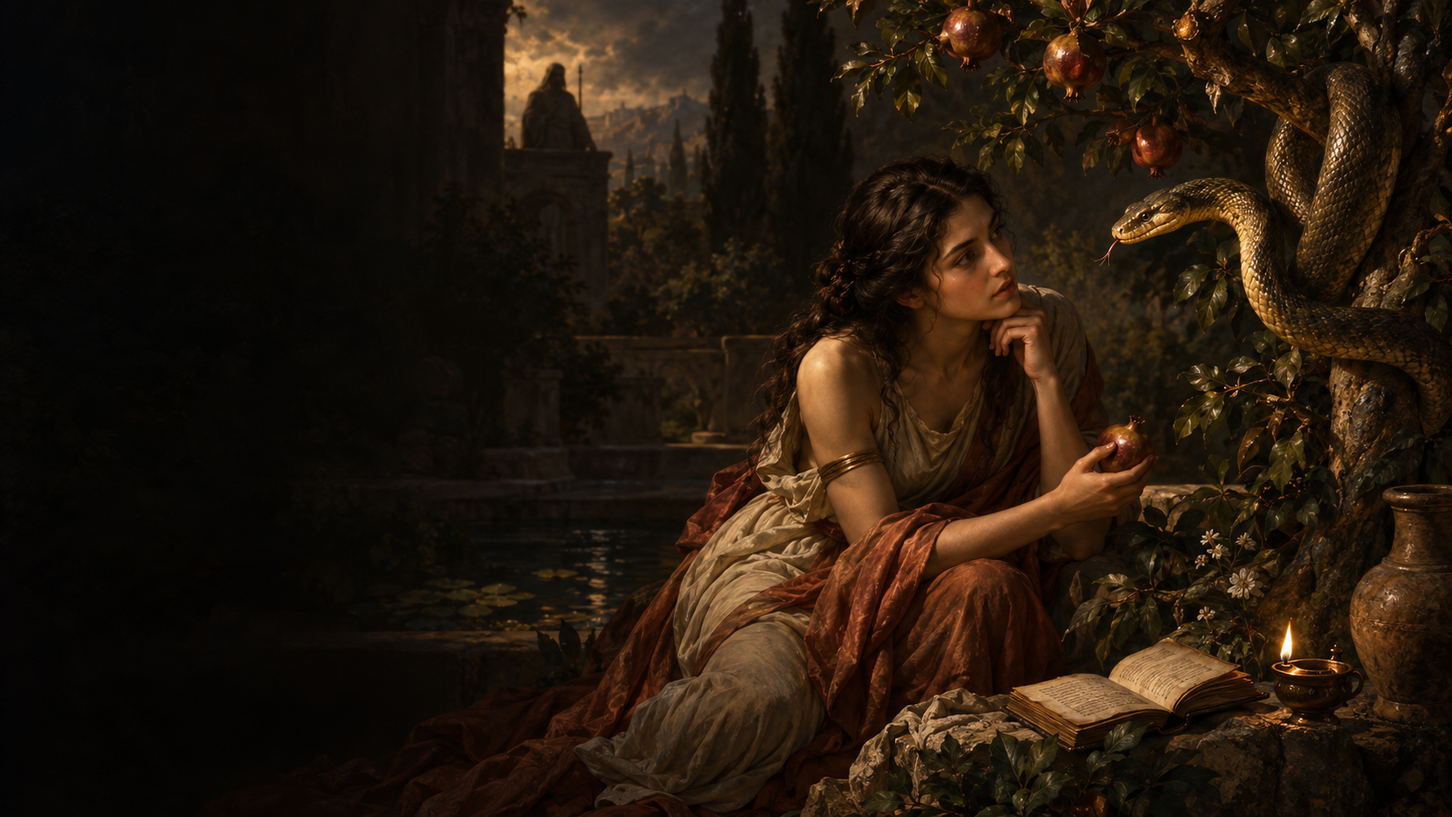
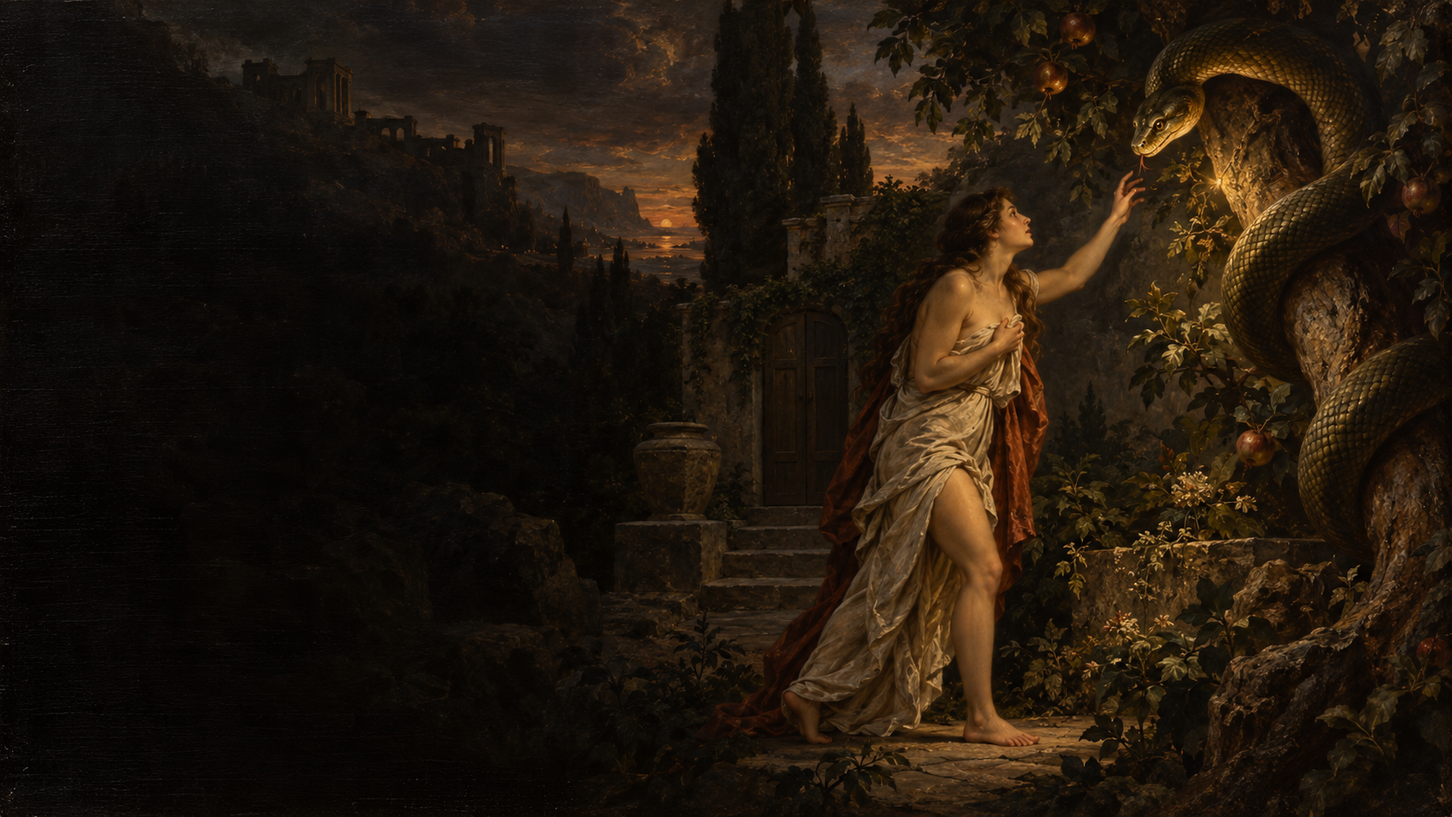
Refine deck 02 with allegorical art and discreet controls

diff --git a/02/index.html b/02/index.html
@@ -99,14 +99,10 @@
       .notes-panel.is-open { display: block; }
       .notes-panel h3 { margin-bottom: .7rem; color: var(--gold); font-family: var(--sans); font-size: 1rem; font-weight: 800; letter-spacing: .12em; text-transform: uppercase; }
       .notes-panel p { font-family: var(--display); font-size: clamp(19px,1.4vw,29px); line-height: 1.35; }
-      .controls { position: absolute; z-index: 25; left: 4%; right: 4%; bottom: 2.5%; display: flex; align-items: center; gap: .7rem; padding: .45rem .65rem; border: 1px solid rgba(251,245,233,.2); border-radius: 3rem; color: var(--ivory); background: rgba(14,18,15,.79); opacity: .75; transition: opacity .2s; }
-      .controls:hover, .controls:focus-within { opacity: 1; }
-      .control-button { min-width: 2.5rem; height: 2.5rem; padding: 0 .6rem; border: 1px solid rgba(251,245,233,.34); border-radius: 2rem; color: inherit; background: transparent; cursor: pointer; font-size: 1rem; font-weight: 700; }
-      .control-button:hover, .control-button:focus-visible { border-color: var(--gold); color: var(--gold); }
-      .progress { flex: 1; height: 3px; margin-left: .5rem; background: rgba(251,245,233,.25); }
+      .progress { position: absolute; z-index: 25; left: 0; right: 0; bottom: 0; height: 3px; pointer-events: none; }
       .progress span { display: block; height: 100%; width: 4.76%; background: var(--gold); transition: width .25s; }
-      .counter { min-width: 5rem; color: var(--gold); font-size: 1rem; font-weight: 800; text-align: right; }
-      @media (max-width: 800px) { .meta { font-size: 12px; } .eyebrow { font-size: 13px; } .title { font-size: 6vw; } .hero .title { font-size: 7.5vw; } .lede { font-size: 2.9vw; margin-top: .6rem; } .support, .source-line { font-size: 2.1vw; margin-top: .7rem; } .body { padding-top: 9%; } .cards, .compare, .steps { margin-top: 1rem; } .card { min-height: 4rem; padding: .5rem; } .card h3 { font-size: 3vw; } .card p { margin-top: .3rem; font-size: 2vw; } .stack { gap: .25rem; margin-top: .4rem; } .stack-item { font-size: 2.8vw; } .image-copy { bottom: 13%; } .controls { padding: .15rem; } .control-button { min-width: 1.5rem; height: 1.5rem; font-size: .55rem; } .counter { font-size: .55rem; } }
+      .visually-hidden { position: absolute; width: 1px; height: 1px; padding: 0; margin: -1px; overflow: hidden; clip: rect(0,0,0,0); white-space: nowrap; border: 0; }
+      @media (max-width: 800px) { .meta { font-size: 12px; } .eyebrow { font-size: 13px; } .title { font-size: 6vw; } .hero .title { font-size: 7.5vw; } .lede { font-size: 2.9vw; margin-top: .6rem; } .support, .source-line { font-size: 2.1vw; margin-top: .7rem; } .body { padding-top: 9%; } .cards, .compare, .steps { margin-top: 1rem; } .card { min-height: 4rem; padding: .5rem; } .card h3 { font-size: 3vw; } .card p { margin-top: .3rem; font-size: 2vw; } .stack { gap: .25rem; margin-top: .4rem; } .stack-item { font-size: 2.8vw; } .image-copy { bottom: 13%; } }
       @media (prefers-reduced-motion: reduce) { .slide, .progress span { transition: none; } }
     </style>
   </head>
@@ -115,7 +111,7 @@
       <div class="frame" id="frame">
         <!-- 01 -->
         <section class="slide slide--image hero is-active" data-title="Confiar sin controlar">
-          <img class="slide-photo" src="assets/01-planes.png" alt="Una persona agotada frente a sus planes en una mesa nocturna" />
+          <img class="slide-photo" src="assets/01-planes.png?v=2" alt="Una persona forcejea con las cuerdas de una vela bajo una tormenta" />
           <div class="meta"><span>Dos jardines · una pregunta</span><span class="number">01 / 21</span></div>
           <div class="image-copy"><p class="eyebrow">Confianza y control</p><h1 class="title">CONFIAR<br /><em>SIN CONTROLAR</em></h1><p class="lede">¿Busco a Dios o una manera de asegurar mi futuro?</p></div>
           <p class="speaker-notes">Abrir con una necesidad humana: querer que todo salga bien. Presentar la pregunta central sin resolverla aún.</p>
@@ -145,7 +141,7 @@
 
         <!-- 05 -->
         <section class="slide slide--image" data-title="El jardín contado al revés">
-          <img class="slide-photo" src="assets/03-jardin-invertido.png" alt="Relectura pictórica de un jardín antiguo con una serpiente presentada como instructora" />
+          <img class="slide-photo" src="assets/03-jardin-invertido.png?v=2" alt="Una persona se acerca a la serpiente que parece ofrecerle conocimiento en un jardín antiguo" />
           <div class="meta"><span>Una relectura gnóstica</span><span class="number">05 / 21</span></div>
           <div class="image-copy"><p class="eyebrow">La misma historia, contada al revés</p><h2 class="title">La serpiente <em>instruye.</em><br />El creador <em>impide.</em></h2><p class="source-line">En ciertos relatos, no en todos</p></div>
           <p class="speaker-notes">La hipóstasis de los arcontes presenta a la serpiente como instructora. Ireneo describe doctrinas relacionadas. Distinguir esta relectura del Génesis bíblico y de otras corrientes gnósticas.</p>
@@ -174,7 +170,7 @@
 
         <!-- 09 -->
         <section class="slide slide--image" data-title="The Secret">
-          <img class="slide-photo" src="assets/04-manifestar.png" alt="Mujer mirando imágenes de la vida que desea mientras sostiene una factura" />
+          <img class="slide-photo" src="assets/04-manifestar.png?v=2" alt="Una persona intenta atravesar un espejo hacia un futuro deslumbrante mientras el suelo se inunda" />
           <div class="meta"><span>La ley de la atracción</span><span class="number">09 / 21</span></div>
           <div class="image-copy"><p class="eyebrow">The Secret</p><h2 class="title">Tus pensamientos <em>atraen</em> lo que llega a tu vida.</h2><p class="support">Ésa es su propuesta; no una ley científica demostrada.</p></div>
           <p class="speaker-notes">La página oficial de The Secret sostiene que pensamientos atraen objetos, personas y experiencias. Distinguir la afirmación de su evidencia científica.</p>
@@ -189,7 +185,7 @@
 
         <!-- 11 -->
         <section class="slide slide--image" data-title="También dicen suelta">
-          <img class="slide-photo" src="assets/05-soltar-el-como.png" alt="Persona medita con manos abiertas mientras las imágenes del futuro deseado siguen presentes" />
+          <img class="slide-photo" src="assets/05-soltar-el-como.png?v=2" alt="Una persona abre las manos, pero un hilo rojo en su muñeca la mantiene atada a una puerta iluminada" />
           <div class="meta"><span>El detalle más sutil</span><span class="number">11 / 21</span></div>
           <div class="image-copy"><p class="eyebrow">También dicen «suelta»</p><h2 class="title">Entrega el <em>cómo.</em><br />Conserva el resultado <em>imaginado.</em></h2><p class="source-line">La tensión en el planteamiento de Dispenza</p></div>
           <p class="speaker-notes">En The Balance Between Intention and Surrender, Dispenza propone intención y emoción elevadas, luego entregar el modo de realización. Preguntar si también se entrega el resultado.</p>
@@ -255,7 +251,7 @@
 
         <!-- 20 -->
         <section class="slide slide--image" data-title="La pregunta para nosotros">
-          <img class="slide-photo" src="assets/08-pregunta.png" alt="Mesa de madera, vela y silla vacía ante una ventana al amanecer" />
+          <img class="slide-photo" src="assets/08-pregunta.png?v=2" alt="Una persona afloja una cuerda anudada al borde de un camino incierto antes del amanecer" />
           <div class="meta"><span>La pregunta para nosotros</span><span class="number">20 / 21</span></div>
           <div class="image-copy"><p class="eyebrow">Ahora, nosotros</p><h2 class="title">¿Qué espero que Dios <em>me garantice?</em></h2><p class="support">Si no sucede como quiero, ¿seguiré confiando en Él?</p></div>
           <p class="speaker-notes">Dar un momento de silencio. Escuchar lo que surja en el grupo. La pregunta invita a examinar la propia oración, no a evaluar las prácticas de otros.</p>
@@ -269,14 +265,8 @@
         </section>
 
         <aside class="notes-panel" id="notesPanel" aria-hidden="true"><h3>Notas del presentador · N para cerrar</h3><p id="notesContent"></p></aside>
-        <nav class="controls" aria-label="Controles de la presentación">
-          <button class="control-button" id="prev" type="button" aria-label="Lámina anterior">←</button>
-          <button class="control-button" id="next" type="button" aria-label="Lámina siguiente">→</button>
-          <button class="control-button" id="notesToggle" type="button" aria-label="Mostrar notas del presentador">Notas (N)</button>
-          <button class="control-button" id="fullscreen" type="button" aria-label="Pantalla completa">Pantalla (F)</button>
-          <div class="progress" aria-hidden="true"><span id="progressBar"></span></div>
-          <span class="counter" id="counter">01 / 21</span>
-        </nav>
+        <div class="progress" aria-hidden="true"><span id="progressBar"></span></div>
+        <span class="visually-hidden" id="counter" aria-live="polite">01 / 21</span>
       </div>
     </main>
     <script>
@@ -287,7 +277,6 @@
         const notesContent = document.getElementById('notesContent');
         const counter = document.getElementById('counter');
         const progressBar = document.getElementById('progressBar');
-        const notesToggle = document.getElementById('notesToggle');
         let current = 0;
         const clamp = (value, min, max) => Math.max(min, Math.min(value, max));
         function updateNotes() {
@@ -312,7 +301,6 @@
         function toggleNotes() {
           const open = notesPanel.classList.toggle('is-open');
           notesPanel.setAttribute('aria-hidden', String(!open));
-          notesToggle.setAttribute('aria-pressed', String(open));
         }
         async function toggleFullscreen() {
           try {
@@ -320,10 +308,12 @@
             else await document.exitFullscreen();
           } catch (error) { console.warn('Pantalla completa no disponible.', error); }
         }
-        document.getElementById('prev').addEventListener('click', () => goTo(current - 1));
-        document.getElementById('next').addEventListener('click', () => goTo(current + 1));
-        notesToggle.addEventListener('click', toggleNotes);
-        document.getElementById('fullscreen').addEventListener('click', toggleFullscreen);
+        frame.addEventListener('click', event => {
+          if (event.target.closest('.notes-panel')) return;
+          const bounds = frame.getBoundingClientRect();
+          if (event.clientX - bounds.left < bounds.width * .35) goTo(current - 1);
+          else goTo(current + 1);
+        });
         document.addEventListener('keydown', event => {
           if (['INPUT', 'TEXTAREA', 'SELECT'].includes(document.activeElement?.tagName)) return;
           if (['ArrowRight', ' ', 'PageDown'].includes(event.key)) { event.preventDefault(); goTo(current + 1); }

diff --git a/02/ARTE.md b/02/ARTE.md
@@ -1,30 +1,32 @@
 # Arte · Confiar sin controlar
 
-Ocho pinturas narrativas originales, horizontales 16:9 y sin texto dentro de la imagen. La serie se mueve de una habitación moderna saturada de planes a dos jardines y termina en una mesa vacía. El lenguaje es realismo pictórico de aire barroco: rostros expresivos, manos legibles, luz que revela una acción, sombra profunda y una paleta de ámbar, cobre, verde oliva, azul noche y marfil. La historia debe entenderse por la escena, no por iconos abstractos.
+Ocho pinturas narrativas originales, horizontales 16:9 y sin texto dentro de la imagen. La serie abre con alguien forcejeando contra una tormenta, pasa por dos jardines y termina con una cuerda que empieza a soltarse. El lenguaje es pintura alegórica de aire barroco: gesto decisivo, escala teatral, pincelada visible, luz que revela una elección y sombras profundas. La historia debe entenderse por la escena, no por una pose editorial o un ambiente doméstico agradable.
+
+Revisión visual de septiembre de 2026: Rogelio señaló como referencia su presentación personal **«Corazón inquieto»**, guardada en su vault *Praulios Lair*. Revisamos el plan visual y las imágenes incorporadas en el PowerPoint. Tomamos su contraste entre laberinto y camino, falsa promesa y luz, así como su uso de una acción simbólica legible en un instante. **No se publicaron imágenes, dibujos personales ni personajes de aquel testimonio en este repositorio.** Los cinco artes sustituidos se generaron de nuevo con esa dirección; Edén, Getsemaní y Teresita se conservaron.
 
 | Arte | Lámina | Archivo | Imagen memorable |
 | --- | ---: | --- | --- |
-| 01 | 01 | `assets/01-planes.png` | Una persona contemporánea sola ante planes y calendario, agotada de intentar controlar el futuro. |
+| 01 | 01 | `assets/01-planes.png` | Una persona forcejea con las cuerdas de una vela durante una tormenta que no puede gobernar. |
 | 02 | 03 | `assets/02-eden.png` | Eva escucha a la serpiente junto al árbol; abundancia visible y un gesto de duda. |
-| 03 | 05 | `assets/03-jardin-invertido.png` | Una relectura gnóstica del jardín: la serpiente como instructora luminosa en una escena de la Antigüedad tardía. |
-| 04 | 09 | `assets/04-manifestar.png` | Una persona actual mira imágenes de la vida que desea mientras su realidad inmediata sigue a la vista. |
-| 05 | 11 | `assets/05-soltar-el-como.png` | La misma tensión moderna en una práctica de meditación: manos abiertas, pero el resultado deseado sigue ocupando el centro. |
+| 03 | 05 | `assets/03-jardin-invertido.png` | Una persona da un paso hacia la serpiente que parece prometer una verdad oculta. |
+| 04 | 09 | `assets/04-manifestar.png` | Una figura intenta atravesar un espejo hacia un futuro brillante mientras su lado del mundo se inunda. |
+| 05 | 11 | `assets/05-soltar-el-como.png` | Manos abiertas; un hilo rojo aún ata la muñeca a una puerta luminosa cerrada. |
 | 06 | 13 | `assets/06-getsemani.png` | Jesús en Getsemaní, angustiado y orando; discípulos dormidos a distancia. |
 | 07 | 16 | `assets/07-teresita.png` | Teresita de Lisieux enferma en 1896, ante la evidencia de sangre y la cercanía de la muerte. |
-| 08 | 20 | `assets/08-pregunta.png` | Mesa de madera, vela y ventana al alba: un espacio concreto para la pregunta personal. |
+| 08 | 20 | `assets/08-pregunta.png` | Una persona afloja una cuerda pesada ante un camino incierto al amanecer. |
 
 ## Prompts de producción
 
-Todos se generan como `historical-scene` cuando la época sea antigua, bíblica o del siglo XIX, y como `stylized-concept` para la escena moderna. Composición horizontal 16:9, pintura al óleo realista original de aire barroco, textura de lienzo sutil, personas anatómicamente coherentes, sin letras, logos, marcas de agua, iconos flotantes ni copia de un cuadro conocido. Reservar una zona de sombra de bajo detalle para texto de gran tamaño.
+Se usó la herramienta integrada de generación de imágenes. Para escenas de época, `historical-scene`; para alegorías de la experiencia moderna, `stylized-concept`. Composición horizontal 16:9, pintura al óleo original de aire barroco, claroscuro, pincelada reconocible, personas anatómicamente coherentes, sin letras, logos, marcas de agua ni copia de un cuadro conocido. Reservar una zona de sombra de bajo detalle para texto de gran tamaño. Los cinco prompts de revisión final, expresados aquí en español, son los que definen las imágenes publicadas; las tres escenas conservadas siguen los prompts originales.
 
-1. **Planes:** De noche, una persona adulta actual ante una mesa con hojas de planificación, teléfono apagado y calendario sin texto legible; una mano aprieta un lápiz, la otra descansa cansada. Mira hacia la ventana, no a cámara. Lámpara cálida a un lado y azul oscuro fuera; sujeto al lado derecho, mitad izquierda oscura para el título. No presentar el control como maldad, sino como cansancio humano.
+1. **Tormenta y control, revisión:** Pintura teatral de una persona en un pequeño barco de madera durante una tormenta, agarrando con fuerza varias cuerdas mojadas y tratando de dominar una vela enorme rasgada por el viento. Manos tensas, mar que se levanta, relámpago ámbar y azul profundo. Vulnerabilidad humana sin personaje sagrado ni milagro. Sujeto a la derecha; tercio izquierdo casi negro para el título. Que se lea como pintura, no como fotografía.
 2. **Edén:** Jardín fértil del relato de Génesis, Eva junto a un árbol frutal y serpiente natural en una rama, escuchando con expresión de duda; Adán más lejos, abundancia vegetal visible. Luz cálida sobre rostro y fruto, sombras profundas. Nada de alas, demonios ni anatomía fantástica. Espacio para texto a la izquierda.
-3. **Jardín invertido:** Representación deliberada de una *relectura gnóstica* y no del relato bíblico: mujer de la Antigüedad tardía en un jardín escuchando una serpiente presentada como instructora, un manuscrito antiguo abierto cerca y una figura de autoridad apenas sugerida al fondo. La escena debe hacer legible que cambia la interpretación del mismo jardín. Luz sobre la serpiente y el rostro; sin letras ni falsa iconografía histórica específica.
-4. **Manifestar:** Interior contemporáneo modesto, mujer ante una pared con imágenes sin letras de casa, viaje y éxito; conserva en la mano una factura sin números visibles. Mira con esperanza y tensión; luz dorada sobre los recortes, mesa real en penumbra. Sujeto a la derecha, texto a la izquierda.
-5. **Soltar el cómo:** Persona actual meditando en una habitación sencilla, manos abiertas, frente a ella un tablero con fotografías del mismo futuro deseado; luz de amanecer, rostro entre alivio y expectativa. El gesto de soltar es real pero el desenlace sigue físicamente presente. Composición sobria, izquierda para texto.
+3. **Jardín invertido, revisión:** Alegoría de cierta relectura gnóstica: en un jardín antiguo de piedra al atardecer, una persona da un paso deliberado hacia una serpiente natural grande enroscada en un árbol. La mano tiembla y se acerca a su rostro iluminado; la promesa de saber resulta atractiva e inquietante. Vestuario antiguo plausible, emoción en el gesto y contacto visual. Acción a la derecha, sombra oscura despejada a la izquierda. No convertir la serpiente en demonio caricaturesco.
+4. **El espejo, revisión:** Alegoría de la promesa de obtener el futuro deseado, no retrato literal de una práctica de *The Secret*. Una persona desesperada se apoya en un espejo enorme, agrietado y dorado, e intenta atravesarlo hacia una casa luminosa; su lado del recinto se inunda. Una sola acción clara, ropa intemporal gastada, espejo y persona a la derecha, izquierda oscura para texto. Sin tablero de deseos, fotos recortadas ni comodidad doméstica.
+5. **Manos abiertas, hilo tenso, revisión:** En una gran sala oscura de piedra, una figura ha abierto ambas manos como señal de entrega, pero un hilo rojo tenso sigue atado a una muñeca y llega hasta una puerta luminosa y cerrada. El cuerpo se inclina por la tensión. La imagen pregunta si se soltó el medio pero no el resultado. Elementos físicamente arraigados, no levitación ni símbolos flotantes. Acción a la derecha, zona oscura a la izquierda.
 6. **Getsemaní:** Judea del siglo I, noche en un huerto de olivos; Jesús solo en primer plano, arrodillado o inclinado, manos humanas tensas en oración y rostro con angustia real; tres discípulos dormidos a distancia. Luz fría de luna y un haz cálido discreto, sin ángel visible, halo ni teatralidad. Reservar un lado oscuro para texto.
 7. **Teresita:** Carmelita joven en enfermería de Lisieux hacia 1896, hábito carmelita históricamente plausible, pañuelo con una pequeña mancha de sangre en la mano, cama simple y ventana; expresión de sorpresa y recogimiento. No retrato documental ni santidad sentimental; pincelada realista, luz de madrugada, zona oscura para texto.
-8. **Pregunta:** Sala de oración sobria y vacía al amanecer, mesa de madera, vela casi consumida, silla apartada y ventana abierta; una carta doblada sin texto legible descansa en la mesa. La ausencia de personas deja espacio al espectador. Luz cálida baja, sombras profundas, zona amplia para una pregunta.
+8. **La cuerda, revisión:** Una persona vista desde atrás al borde de un camino sobre un valle difícil antes del amanecer. Abre la mano que sujetaba una cuerda pesada y anudada; queda marcada por el esfuerzo. El cuerpo está por dar un paso, sin destino seguro visible. Confianza sin triunfo fácil, sin milagro ni mesa contemplativa. Figura y valle a la derecha, sombra amplia para la pregunta a la izquierda.
 
 ## Referencias de composición
 
@@ -32,4 +34,4 @@ Todos se generan como `historical-scene` cuando la época sea antigua, bíblica 
 - [The Met, *The Penitent Magdalen* de Georges de La Tour](https://www.metmuseum.org/art/collection/search/436839): una vela, geometría sencilla y sombra pueden sostener una imagen contemplativa. Inspira el arte final.
 - [Museo del Prado, *La oración en el huerto* de Luis de Morales](https://www.museodelprado.es/coleccion/obra-de-arte/la-oracion-en-el-huerto/f49c8c20-103a-4619-b09f-90469118f4a5): la narración incluye a Jesús, el huerto y la llegada de quienes lo prenderán. Referencia de contenido iconográfico, no de vestimenta documentada ni de composición a replicar.
 
-Las escenas bíblicas y gnósticas son interpretaciones pictóricas de textos, no fotografías de hechos históricos. La imagen de Teresita es una representación, no su retrato auténtico. Las imágenes generadas no incorporan obras de museo.
+Las escenas bíblicas y gnósticas son interpretaciones pictóricas de textos, no fotografías de hechos históricos. El espejo, el hilo y la cuerda son alegorías de la tesis de la charla, no descripciones documentales de *The Secret*, Dispenza o una experiencia personal de Rogelio. La imagen de Teresita es una representación, no su retrato auténtico. Las imágenes generadas no incorporan obras de museo ni del PowerPoint personal de referencia.

diff --git a/02/GUION.md b/02/GUION.md
@@ -6,7 +6,7 @@ Este guion desarrolla lo que la pantalla sólo sugiere. Las preguntas pueden abr
 
 ## 01 · Confiar sin controlar
 
-**En pantalla:** una persona exhausta ante sus planes, y la pregunta «¿Busco a Dios o una manera de asegurar mi futuro?»
+**En pantalla:** una persona forcejea con las cuerdas de una vela en plena tormenta, y aparece la pregunta «¿Busco a Dios o una manera de asegurar mi futuro?» La tormenta es una alegoría del afán de control.
 
 **Para decir:** «Hay algo profundamente humano en querer saber que todo va a salir bien. Buscamos una explicación, una práctica, una promesa que nos quite la incertidumbre. Esta noche quiero hablar de confianza en Dios, pero desde un lugar incómodo: a veces llamo confianza a un intento más sofisticado de controlar mi vida. Me gustaría que recorramos dos jardines y la historia de una joven que perdió hasta el consuelo de su fe.» Dejar respirar la imagen.
 
@@ -30,7 +30,7 @@ Este guion desarrolla lo que la pantalla sólo sugiere. Las preguntas pueden abr
 
 ## 05 · La historia al revés
 
-**En pantalla:** en una relectura gnóstica, la serpiente instruye y el creador impide.
+**En pantalla:** en una relectura gnóstica, una persona se acerca a la serpiente que parece ofrecerle conocimiento; el creador aparece como obstáculo en la interpretación, no como personaje visible en esta pintura.
 
 **Para decir:** «Ahora viene un giro sorprendente: algunos relatos antiguos toman ese mismo jardín y cambian la lectura de los personajes. En [*La hipóstasis de los arcontes*](https://www.gnosis.org/naghamm/hypostas.html), la serpiente aparece como instructora. [Ireneo, *Contra las herejías* I,30](https://www.newadvent.org/fathers/0103130.htm), describe doctrinas en que la serpiente ayuda a obtener un conocimiento que el creador inferior ocultaba. Ireneo es un adversario de esos grupos; por eso es útil contrastarlo con el texto gnóstico mismo. No estoy diciendo que todo gnosticismo haya contado el jardín de la misma manera.»
 
@@ -54,7 +54,7 @@ Este guion desarrolla lo que la pantalla sólo sugiere. Las preguntas pueden abr
 
 ## 09 · *The Secret*
 
-**En pantalla:** la pared de deseos, la factura y la promesa de que los pensamientos atraen circunstancias.
+**En pantalla:** una persona intenta cruzar un espejo hacia el futuro que desea mientras su lado del mundo se inunda. Es una alegoría del atractivo de esa promesa, no una práctica descrita por *The Secret*.
 
 **Para decir:** «La [página oficial de *The Secret*](https://www.thesecret.tv/law-of-attraction/) sostiene que nuestros pensamientos atraen objetos, personas y experiencias. No se limita a decir que pensar de otro modo cambia nuestras decisiones; propone una relación entre pensamiento y circunstancias externas. Imaginen por qué eso puede atraer a alguien preocupado por dinero, enfermedad o futuro. También imaginen la presión que podría producir si cada temor se vuelve algo que debo vigilar por miedo a atraerlo. Esta última es una consecuencia posible, no una experiencia atribuible a todos sus lectores.»
 
@@ -66,7 +66,7 @@ Este guion desarrolla lo que la pantalla sólo sugiere. Las preguntas pueden abr
 
 ## 11 · También dicen «suelta»
 
-**En pantalla:** «Suelta el cómo. Conserva el resultado imaginado.»
+**En pantalla:** manos abiertas y un hilo rojo que aún une a la persona con una puerta luminosa cerrada. «Suelta el cómo. Conserva el resultado imaginado.» La escena es una interpretación visual de la tensión, no una ilustración literal de Dispenza.
 
 **Para decir:** «Ésta es la parte más sutil. En [*The Balance Between Intention and Surrender*](https://drjoedispenza.com/dr-joes-blog/the-balance-between-intention-and-surrender), Dispenza propone una intención clara, una emoción elevada y luego entregar el “cómo” de la realización. Habla de confiar y de no forzar los medios. Por eso sería una mala comparación decir simplemente “ellos controlan, nosotros soltamos”. La pregunta más precisa es: cuando suelto el método, ¿también entrego el desenlace, o la práctica sigue orientada a que ocurra el futuro que imaginé?»
 
@@ -120,7 +120,7 @@ Este guion desarrolla lo que la pantalla sólo sugiere. Las preguntas pueden abr
 
 ## 20 · La pregunta para nosotros
 
-**En pantalla:** una silla vacía y la pregunta «¿Qué espero que Dios me garantice?»
+**En pantalla:** una mano empieza a aflojar una cuerda pesada ante un camino incierto y la pregunta «¿Qué espero que Dios me garantice?»
 
 **Para decir:** «Volvamos a nosotros. ¿Hay algo que le pido a Dios y, en el fondo, considero que no debería negarme? ¿Cuando digo “hágase tu voluntad”, estoy confiando en su bondad o suponiendo que esa frase será el modo de conseguir finalmente lo que quiero?» Dejar un momento de silencio. Escuchar las respuestas que surjan sin convertir la lámina en un examen sobre prácticas ajenas.
 

diff --git a/02/BRIEF.md b/02/BRIEF.md
@@ -32,3 +32,5 @@ Pregunta central: **¿Busco a Dios o una manera espiritual de garantizar lo que 
 ## Formato
 
 21 láminas HTML 16:9, letra visible en televisión de 42 pulgadas, al menos ocho artes originales horizontales de pintura realista con dramatismo barroco, guion Markdown, notas del presentador, fuentes y publicación en `https://praulio.github.io/ppt/02/`.
+
+Revisión visual posterior: mantener ocho pinturas, pero favorecer escenas alegóricas de elección y tensión frente a escenas contemporáneas de estilo de vida. Como referencia de intensidad narrativa se revisó la presentación personal «Corazón inquieto» en el vault de Rogelio. No se reutilizan ni publican sus imágenes privadas. En pantalla queda sólo una línea dorada de progreso; clic a la derecha para avanzar y a la izquierda para retroceder. Los atajos de teclado para notas y pantalla completa permanecen disponibles, sin controles visibles.

diff --git a/README.md b/README.md
@@ -29,7 +29,7 @@ Pega el chat completo de contexto y di: «Haz la siguiente presentación siguien
 
 ## Para presentar
 
-Abre `/01/` o `/02/`. Usa `→` y `←` para avanzar o retroceder, `F` para pantalla completa y `N` para las notas del presentador. El guion completo está en `NN/GUION.md`. Cada presentación funciona como sitio estático: no necesita cuenta, servidor de aplicación ni dependencias al abrirla en GitHub Pages.
+Abre `/01/` o `/02/`. Usa `→` y `←` para avanzar o retroceder, `F` para pantalla completa y `N` para las notas del presentador. En `/02/` también puedes tocar o hacer clic: lado izquierdo para retroceder, resto de la lámina para avanzar. Sólo queda visible una línea de progreso discreta. El guion completo está en `NN/GUION.md`. Cada presentación funciona como sitio estático: no necesita cuenta, servidor de aplicación ni dependencias al abrirla en GitHub Pages.
 
 ## Publicación
 
